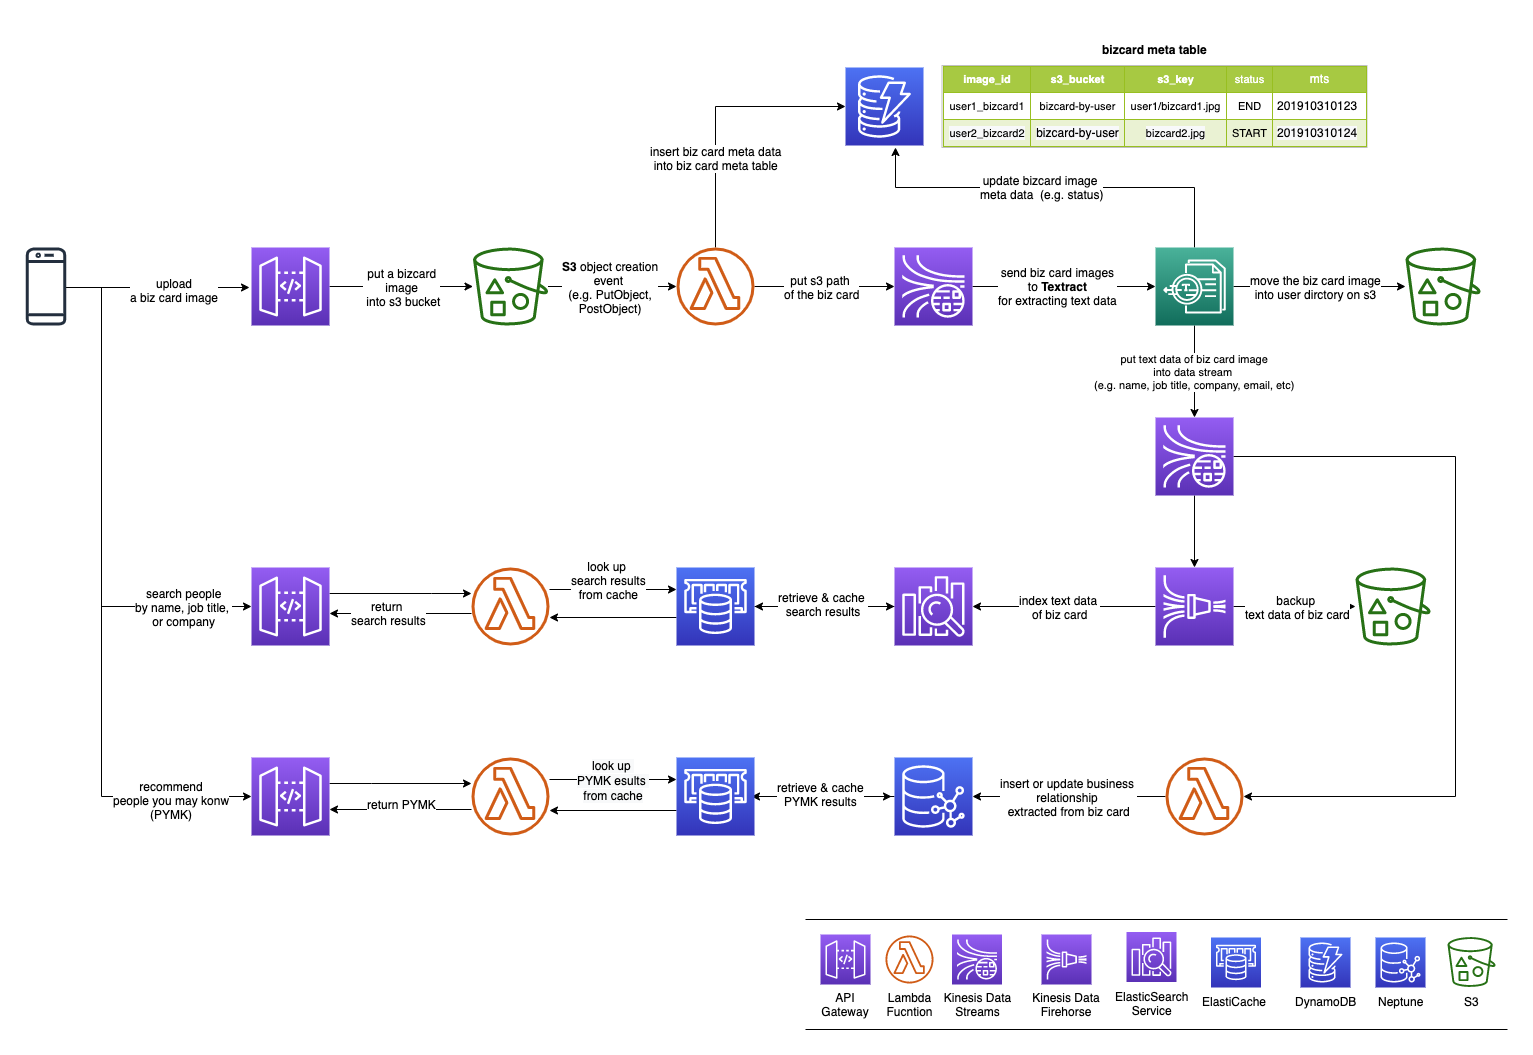
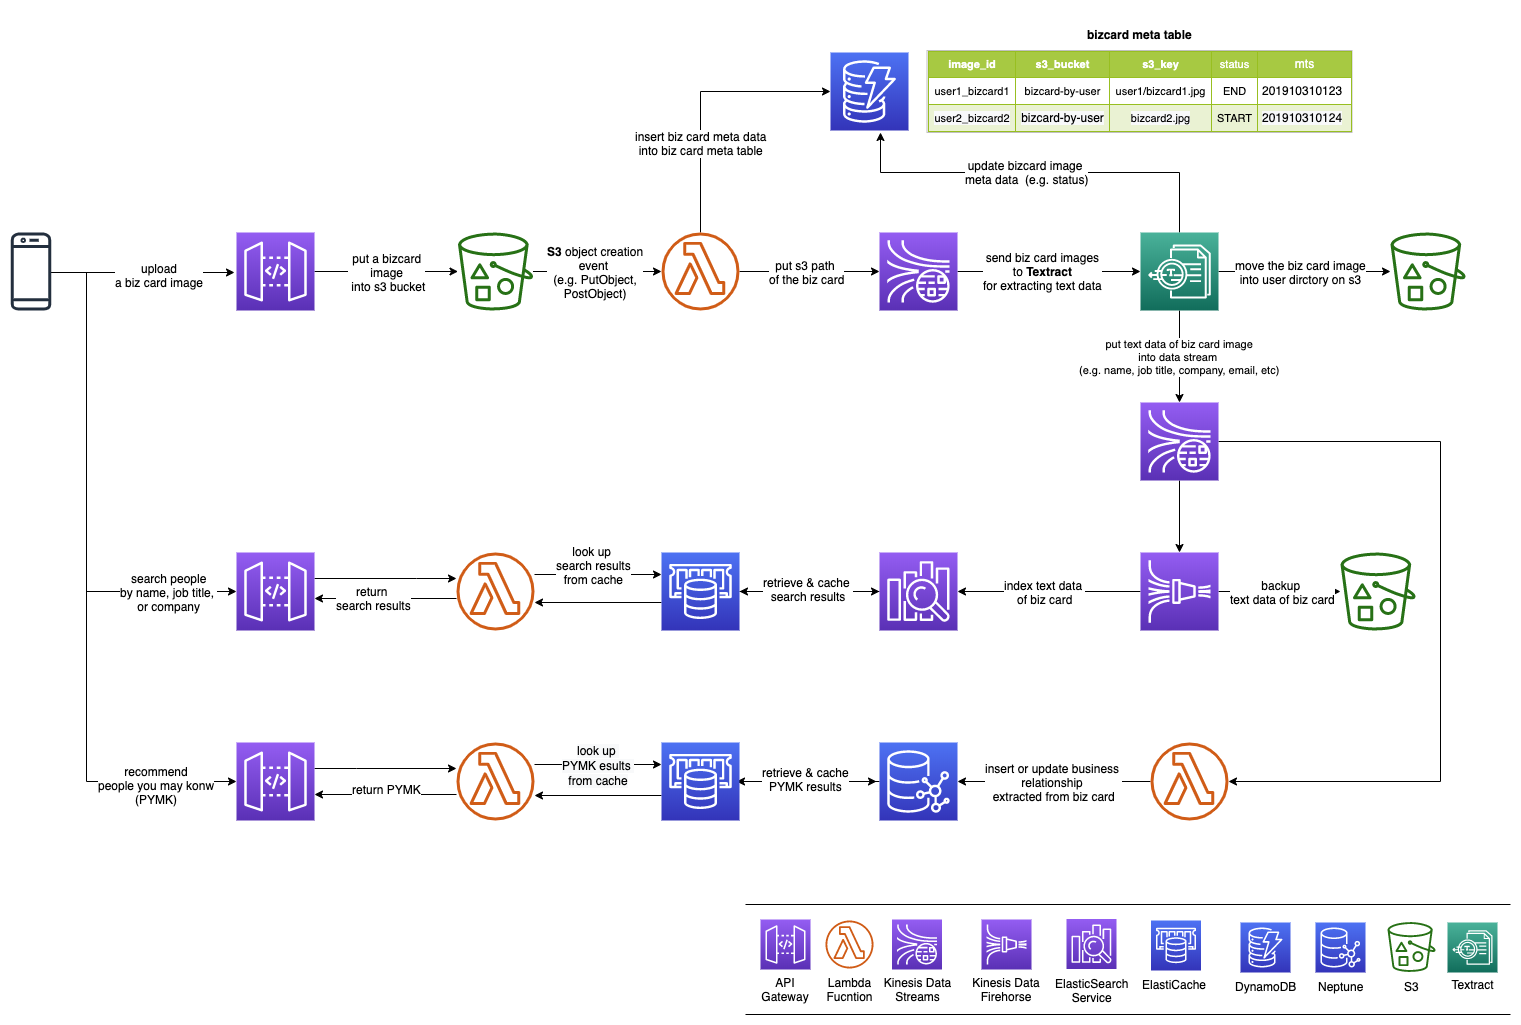
update architecture diagram

diff --git a/README.md b/README.md
@@ -3,8 +3,19 @@
 - OCR(Optical Character Reconition) 기술을 활용한 명함 관리 및 Graph database(Neptune)을 이용한 인맥 추천 서비스
 
 ### Architecture
-
 ![octember-architecture](octember-arch.png)
+
+##### Key AWS Services
+- API Gateway
+- Lambda Function
+- Kinesis Data Stream
+- Kinesis Data Firehorese
+- Elasticsearch Service
+- ElastiCache
+- DynamoDB
+- Neptune
+- S3
+- Textract
 
 ### RESTful API Specification
 ##### Image upload
